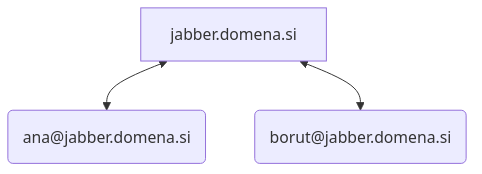
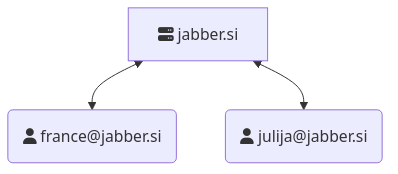
Images

Changed region(s): [[0.0, 0.0287, 0.995, 0.9483], [0.3317, 0.1437, 0.6332, 0.2586]]

diff --git a/report/seminar.tex b/report/seminar.tex
@@ -1,4 +1,4 @@
-% Created 2025-04-08 Tue 23:28
+% Created 2025-04-10 Thu 08:08
 % Intended LaTeX compiler: pdflatex
 \documentclass[11pt]{article}
 \usepackage[utf8]{inputenc}
@@ -29,13 +29,13 @@
 \maketitle
 
 \section{Namen protokola}
-\label{sec:orga104b8d}
+\label{sec:orgfcb6b18}
 
 XMPP je protokol, namenjen izmenjavi strukturiranih podatkov v
 približno realnem času med dvemi ali več entitetami
-(Peter Saint-Andre, 2011). Kratica XMPP pomeni \emph{Extensible Messaging and Presence
-Protocol}, oziroma v slovenščini - razširljiv protokol sporočil in
-prisotnosti.
+(Peter Saint-Andre, 2011). Kratica XMPP pomeni \emph{Extensible Messaging and
+Presence Protocol}, oziroma v slovenščini - razširljiv protokol za
+sporočanje in prisotnost.
 
 Čeprav je v teoriji XMPP splošno-namenski protokol za izmenjevanje
 sporočil, v praksi se pa največkrat uporablja za hipno sporočanje
@@ -43,33 +43,157 @@ sporočil, v praksi se pa največkrat uporablja za hipno sporočanje
 funkcionalnost klepetanja.
 
 \section{Arhitektura protokola}
-\label{sec:orgeb26036}
+\label{sec:orge4c8fb1}
 
 Pri arhitekturi protokola so se ustvarjalci protokola XMPP zgledovali
 po protokolu SMTP. Udeleženci v protokolu XMPP so povezani v
 porazdeljenem omrežju. Vsak udeleženec je bodisi strežnik bodisi
-klient. Komunikacija lahko poteka ali med strežniki ali med strežniki
-in klienti. En klient je lahko povezan na samo en strežnik in z
-drugimi klienti lahko komunicira le posredno prek (enega ali več)
-strežnikov.
+klient. Poznamo tudi entitete, ki jim pravimo viri, ki pripadajo
+določenemu uporabniku. Komunikacija lahko poteka ali med strežniki ali
+med strežniki in klienti. En klient je lahko povezan na samo en
+strežnik in z drugimi klienti lahko komunicira le posredno prek (enega
+ali več) strežnikov.
+
+Vsaka entiteta ima svoj unikatni identifikator oziroma naslov,
+kateremu pravimo \emph{Jabber ID} oziroma \emph{JID}.
+
+Za strežnike velja, da je njihov JID enak njihovi domeni
+(npr. \texttt{jabber.si}).  JID-ji uporabnikov so oblike
+\texttt{<uporabnik>@<strežnik>} (npr. \texttt{julija@jabber.si}), pri čemer je
+strežnik tisti strežnik, na katerem je račun uporabnika
+prijavljen. Unikatne naprave ali viri, ki so vezane na določenega
+uporabnika imajo JID oblike \texttt{<uporabnik>@<strežnik>/<vir>}
+(npr. \texttt{julija@jabber.si/prenosnik}).
 
 \section{Scenarij komunikacije}
-\label{sec:orgffc1df0}
+\label{sec:orgb609060}
+
+Ko govorimo o komunikaciji med uporabniki, lahko govorimo o
+komunikaciji med uporabniki, prijavljenimi na istem strežniku
+\ref{fig:org360b3d3}, ali med uporabniki, prijavljenimi na različnih
+strežnikih \ref{fig:org4adcf98}.
 
 \begin{figure}[H]
 \centering
 \includegraphics[width=.9\linewidth]{images/local-server.png}
-\caption{Komunikacija med uporabniki na istem strežniku}
+\caption{\label{fig:org360b3d3}Komunikacija med uporabniki na istem strežniku}
+\end{figure}
+
+\begin{figure}[H]
+\centering
+\includegraphics[width=.9\linewidth]{images/cross-server.png}
+\caption{\label{fig:org4adcf98}Komunikacija med uporabniki na različnih strežnikih}
 \end{figure}
 
 \section{Opis specifikacije}
-\label{sec:orga3ffc1d}
+\label{sec:org5b1ac5e}
+
+Protokol XMPP je opisan v več ločenih RFC-jih:
+
+\begin{itemize}
+\item \href{https://datatracker.ietf.org/doc/rfc6120/}{Extensible Messaging and Presence Protocol (XMPP): Core} (v
+nadaljevanju: \emph{XMPP-CORE})
+\item \href{https://datatracker.ietf.org/doc/rfc6121/}{Extensible Messaging
+and Presence Protocol (XMPP): Instant Messaging and Presence} (v
+nadaljevanju: \emph{XMPP-IM})
+\item \href{https://datatracker.ietf.org/doc/rfc7622/}{Extensible Messaging and Presence Protocol (XMPP): Address Format} (v
+nadaljevanju: \emph{XMPP-ADDR})
+\end{itemize}
+
+Specifikacija XMPP-CORE predstavlja minimalno potrebno funkcionalnost
+za strežnik oziroma klient, ki implementira XMPP. Poleg teh treh
+RFC-jev je velik del funkcionalnosti XMPP v razširitvah, ki jim
+pravimo \emph{XEP}-ji (\emph{XMPP Extension Protocols}). Implementacije
+protokola XMPP (strežniki, klienti) implementirajo le določene XEP-je
+in svoje zmožnosti oglašujejo drugim entitetam.
+
+\subsection{XMPP-CORE}
+\label{sec:orgdc6485f}
+
+V tem RFC-ju je definirano:
+
+\begin{itemize}
+\item vzpostavljanje in rušenje povezave med udeleženci v protokolu,
+\item tri osnovne vrste sporočil: \texttt{<message>}, \texttt{<presence>} in \texttt{<iq>},
+\item vrste napak,
+\item ter atribute sporočil. Najbolj pomembna atributa sta \texttt{to} pa \texttt{from},
+ki identificirata pošiljatelja in prejemnika sporočila
+\end{itemize}
+
+Dve entiteti, ki želita komunicirati po protokolu XMPP morata
+vzpostaviti trajno povezavo po protokolu TCP, kateri pravimo \emph{tok XML}
+(ang. \emph{XML stream}). Tok je sestavljen iz posameznih sporočil, katerim
+pravimo \emph{stance XML} (ang. \emph{XML stanzas}). Tako posamezne stance kot
+tudi celoten tok morajo predstavljati sintaksno veljavno besedilo
+formata XML. Primer toka je prikazan v \href{https://xmpp.org/rfcs/rfc6120.html\#streams-fundamentals}{specifikaciji XMPP-CORE, v
+razdelku "4.1 Stream Fundamentals"}.
+
+Pri vzpostavitvi toka se lahko udeleženca dogovorita za šifriranje
+toka s protokolom TLS, ali zahtevata avtentikacijo po protokolu SASL,
+vendar je ta funkcionalnost izven obsega tega poročila.
+
+\subsection{XMPP-IM}
+\label{sec:orgabe2eeb}
+
+Ta specifikacija predstavlja razširitev osnovne specifikacije, in
+predpostavlja, da so entitete, udeležene v protokolu, že vzpostavile
+povezavo po protokolu opisanem v XMPP-CORE.
+
+XMPP-IM omogoča povezovanje z drugimi uporabniki oziroma kontakti. V
+žargonu XMPP pravimo seznamu kontaktov \emph{spisek} (ang. \emph{roster}). Vsak
+uporabnik ima svoj lastni zasebni spisek. Spisek je shranjen na
+strežniku, na katerega je uporabnik prijavljen. Vnose v spisek
+dodajamo in odstranjujemo z uporabo sporočil vrste \texttt{<iq>}.
+
+XMPP-IM omogoča tudi naročanje na prisotnost drugih uporabnikov
+(ang. \emph{presence subscription}). Recimo, da se je France naročil na
+Julijino prisotnost. Če Julija strežniku sporoči, da se je njena
+prisotnost spremenila, bo strežnik Franceta obvestil o Julijini novi
+prisotnosti. Ta obvestila se prenešajo tudi med različnimi strežniki.
+
+Definiran je tudi koncept klepetalnih sej (ang. \emph{Chat
+Session}). Med dvema entitetoma obstaja lahko ena seja, vrste
+"chat". Omogočeni so pa tudi skupinski klepeti - seja vrste
+"groupchat". Informacija o klepetalni seji je del metapodatkov
+sporočila vrste \texttt{<message>}.
+
+\subsection{XMPP-ADDR}
+\label{sec:org5a7c784}
+
+Specifikacija XMPP-ADDR določa, kako so črke izven kodirne tabele
+ASCII predstavljene v naslovih strežnikov oziroma uporabnikov. Vse
+črke, ki niso del ASCII-ja, morajo biti del Unicodea.
 
 \section{Format sporočil}
-\label{sec:org8d97a4a}
+\label{sec:org6a4447c}
+
+Vsa sporočila v protokolu XMPP so predstavljena v formatu
+XML. Format osnovnih vrst sporočil je opisan spodaj.
+
+\subsection{Message}
+\label{sec:orgcafadff}
+
+Sporočilo te vrste je sestavljeno iz XML elementa \texttt{<message>}.
+
+\subsection{Presence}
+\label{sec:org5aa712e}
+
+\subsection{IQ (Info/Query)}
+\label{sec:orgda41e57}
+
+Ta sporočila so namenjena poizvedbam in shranjevanju podatkov na
+drugih entitetah.
+
+Sporočilo te vrste je sestavljeno iz XML elementa \texttt{<iq>}. Element mora
+vsebovati atribut \texttt{id}, ki določa identifikator podatkov, in atribut
+\texttt{type}, ki določa vrsto zahteve. Poznamo vrste \texttt{get}, \texttt{set}, \texttt{result}
+in \texttt{error}. Ko sprožimo zahtevo, izberemo vrsto \texttt{get} ali \texttt{set}, druga
+entiteta pa odgovori z \texttt{result}, v primeru, da je zahteva bila
+uspešna, \texttt{error} pa v primeru, da je zahteva bila neuspešna. Telo
+elementa vsebuje vrednosti podatkov.
 
 \section{Literatura}
-\label{sec:org096abc8}
+\label{sec:org3acbfa3}
 
 \noindent
 Peter Saint-Andre (2011). \emph{{Extensible Messaging and Presence Protocol (XMPP): Core}}, RFC Editor.
